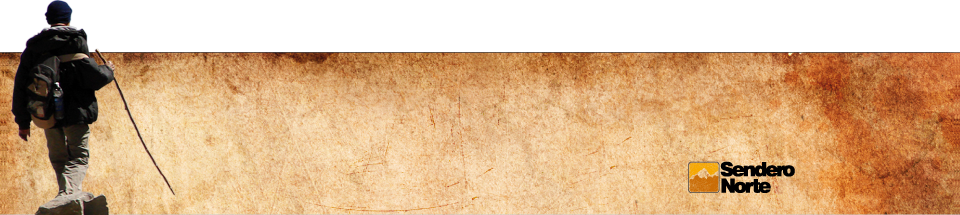
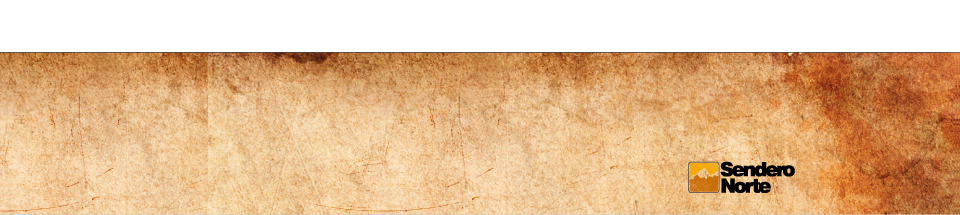
cambios en el estilo

Changed region(s): [[0.0, 0.0, 0.2188, 1.0]]

diff --git a/media/css/style.css b/media/css/style.css
@@ -77,6 +77,7 @@ h1 {
 }
 
 #nav li:hover ul {
+
     display: block;
 }
 
@@ -149,45 +150,34 @@ h1 {
     font-size:14px;
 }
 
-#footer span {
-    border-right: 1px solid black;
-    height: 5px;
-    padding:15px;
-    
-}
-
 #footer p {
     width:500px;
     font-size:10px;
     text-align:center;
-    margin-left:90px;
-    padding-left:90px;
-    margin-top:60px;
-    padding-top:20px;
+    padding:10px 0px 0px 0px;
+    margin:0px 0px 0px 210px;
 }
 
 #footer {
     overflow:hidden;
-    height:215px;
-    background:url("/media/img/footerycaminante.png") no-repeat;
+    height:168px;
+    background:url("/media/img/footer2.jpg") no-repeat;
     text-align:center;
-    margin-top:-55px;
-
 }
+
+
 
 #footer ul {
     list-style:none;
-    padding-top:45px;
-    margin-top:46px;
-    padding-left:70px;
-    margin-left:80px;
+    width:80%;
+    margin:70px 0px 0px 135px;
+   
 }
 
 #footer ul li {
     float:left;
-    padding:15px;
+    padding:10px;
 }
-
 
 #zonas {
     background: #FFF url(../img/mapa/fondomapa.jpg) repeat-x;
@@ -319,6 +309,7 @@ h1#logo_lastexc {
     text-indent: -9999px;
     margin:0px;
     padding:0px;
+
 }
 
 #news_exc h4 a {
@@ -339,7 +330,6 @@ h3#logo_lastexc {
     width:930px;
     background:url("/media/img/ultimas-excursiones.jpg") no-repeat; 
     height:65px;
-    padding-bottom:10px;
 }
 
 #news_exc {
@@ -581,6 +571,7 @@ h3 {
 
 #button-tab-norte {
     background-color:#F29300;
+
     background-position:bottom;
 }
 #button-tab-norte:hover {
@@ -631,8 +622,6 @@ h3 {
 
 .article {
     margin:0px;
-    width:50%;
-    position:relative;
     float:left
 }
 
@@ -661,6 +650,8 @@ h3 {
 .content-tab h2 {
     padding:0px;
     color:#5F5F5F;
+    font-family:"Avenir Next LT Pro";
+    font-size:28pt;
 }
 
 .content-tab p {
@@ -672,14 +663,17 @@ h3 {
 .desc-region {
     float:left;
     text-align:left;
-    width:25%;
+    width:35%;
+    margin:15px 0px 0px 0px;
+    font-family:"Avenir Next LT Pro";
+    font-size:11pt;
 }
 
 .thumbs-exc {
     float:left;   
     text-align:left;
-    width:65%;
-    padding:50px 20px 20px 40px;
+    width:59%;
+    padding:140px 20px 0px 15px;
 }
 
 #logo-excurtions {
@@ -820,11 +814,6 @@ form .leftCol {
     font-size:10px;
 }
 
-#body.error {
-    padding: 10em 4em;
-}
-#body.error p{
-    color :#FFF; 
 .description h3 {
     font-family:"Avenir Next LT Pro", sans-serif;
     font-size:12pt;
@@ -852,5 +841,5 @@ form .leftCol {
 .excurtion p {
     font-family:"Avenir Next LT Pro", sans-serif;
     font-size:11pt;
-    margin:5px;
+    margin:5px;	
 }

diff --git a/templates/index.html b/templates/index.html
@@ -202,18 +202,26 @@
         </div>
         <!-- END OF BODY SECTION -->
         <div id="footer">
+            <div id="caminante"></div>
             <ul>
                 <li>
-                    <a href=""> Excursiones <span></span></a>
+                    <a href=""> Excursiones </a>
                 </li>
                 <li>
-                    <a href=""> Recomendaciones para la salida <span></span></a>
+                    |
+                </li>
+                <li>
+                    <a href=""> Recomendaciones para la salida</a>
+                </li>
+                <li >
+                    |
                 </li>
                 <li>
                     <a href=""> Condiciones de Contratacion</a>
                 </li>
             </ul>
-            <p> "Sendero Norte" Copyright 2011 - Reservados todos los derechos - Diseño Web: Usina Creativa - Desarrollo Web: Ideas </p>
+            <p> "Sendero Norte" Copyright 2011 - Reservados todos los derechos </p> 
+            <p>Diseño Web: Usina Creativa - Desarrollo Web: Ideas </p>
         </div>
         <!-- END OF FOOTER SECTION -->
     </div>
